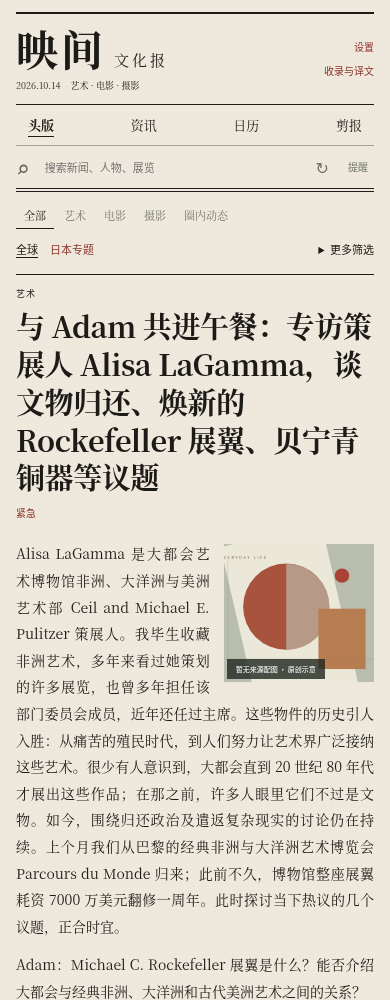
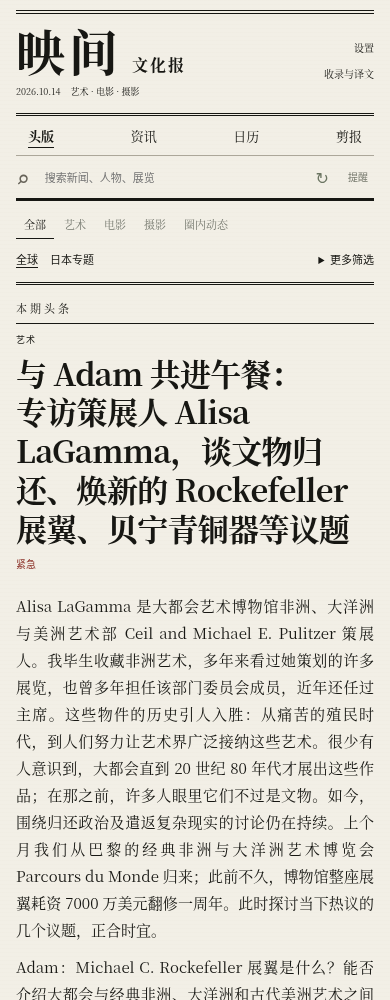
T035 Record public newspaper and original-body verification

diff --git a/docs/HANDOFF.md b/docs/HANDOFF.md
@@ -232,3 +232,5 @@ T034：按公共艺术新闻查询/阅览平台定位重做报版，紧凑报头
 此次只修改展示规则，没有生成新译文、调用翻译API或改变采集/每日任务日程。T028保持doing。
 
 T035本地验收：65Python＋24JS＝89项通过，python -S静态构建及数据审计0错误；Chromium1440/768/390全部537资料分页、全库搜索、三入口、收藏持久与六页无溢出/脚本错误通过。未译各语种、最长正文及公开部分样本默认逐块等于保存原文，lang与待译标记正确，缺正文保留状态；阅读双栏/手机单栏通过。每日任务prompt已实际同步原文直接刊载，启用及Asia/Tokyo日程不变。原文档案及译稿/队列未改。公开验收待下一条记录。
+
+公开实现f433f80；CI https://github.com/k1ryulong6-source/ART-NEWS/actions/runs/38529814910 与Pages https://github.com/k1ryulong6-source/ART-NEWS/actions/runs/38529814722 均success。真实网站Chromium1440/768/390全部537条分页、全量搜索、三处阅读入口、收藏状态持久、六页与长文无溢出/脚本错误通过；未译各语种/最长正文/公开部分样本默认逐文本块精确匹配原文，真实lang、待译身份、正文缺失状态及桌面双栏/手机单栏通过。公开截图更新并保存阅读页截图。T035已验收done；T028仍doing，442待译，44已有中文译稿，无新增翻译/API调用。
